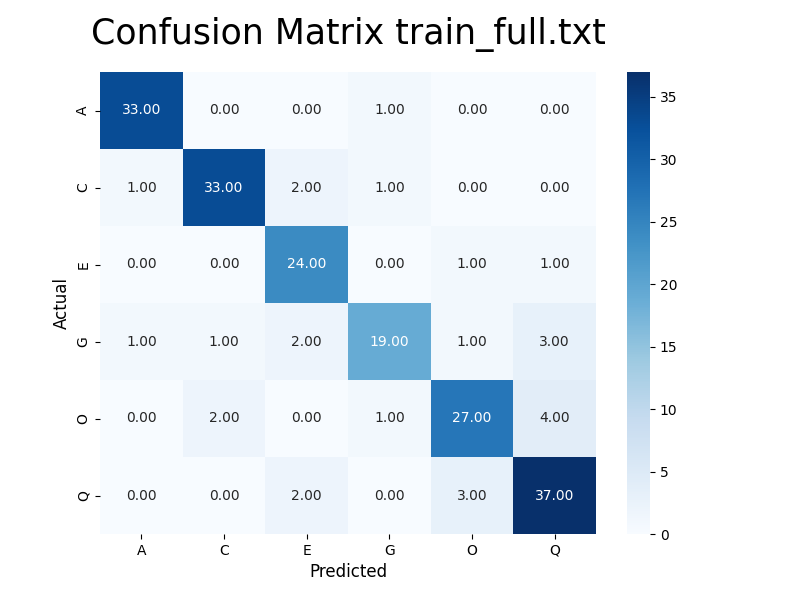
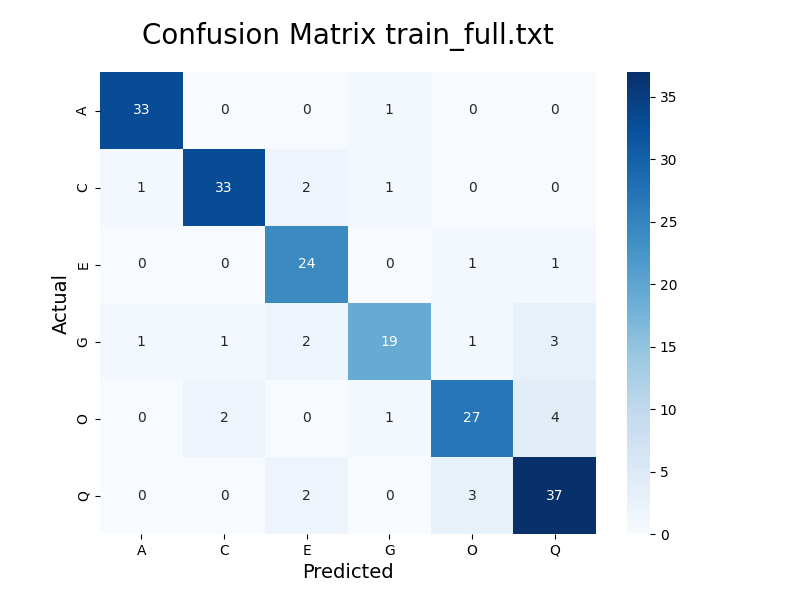
Small adjustments to graph fonts

diff --git a/evaluation.py b/evaluation.py
@@ -181,9 +181,9 @@ def plot_confusion_matrix(confusion, class_labels, title="Confusion Matrix"):
         xticklabels=class_labels,
         yticklabels=class_labels
     )
-    plt.title(f"Confusion Matrix {title}", fontsize=25, pad=20)
-    plt.xlabel("Predicted")
-    plt.ylabel("Actual")
+    plt.title(f"Confusion Matrix {title}", fontsize=20, pad=20)
+    plt.xlabel("Predicted", fontsize=14)
+    plt.ylabel("Actual", fontsize=14)
     plt.savefig(f"Confusion_{title}.png")
     plt.show()
 
@@ -218,9 +218,9 @@ def plot_metrics(y_gold, y_prediction, confusion, class_labels=None, title="Prec
     for metric_name, values in metrics.items():
         plt.plot(class_labels, values, marker='o', label=metric_name)
 
-    plt.title(f"Evaluation metrics for {title}", fontsize=25, pad=20)
-    plt.xlabel("Class Labels")
-    plt.ylabel("Score")
+    plt.title(f"Evaluation metrics for {title}", fontsize=20, pad=20)
+    plt.xlabel("Class Labels", fontsize=14)
+    plt.ylabel("Score", fontsize=14)
     plt.legend()
     plt.grid()
     plt.savefig(f"Eval_{title}.png")
